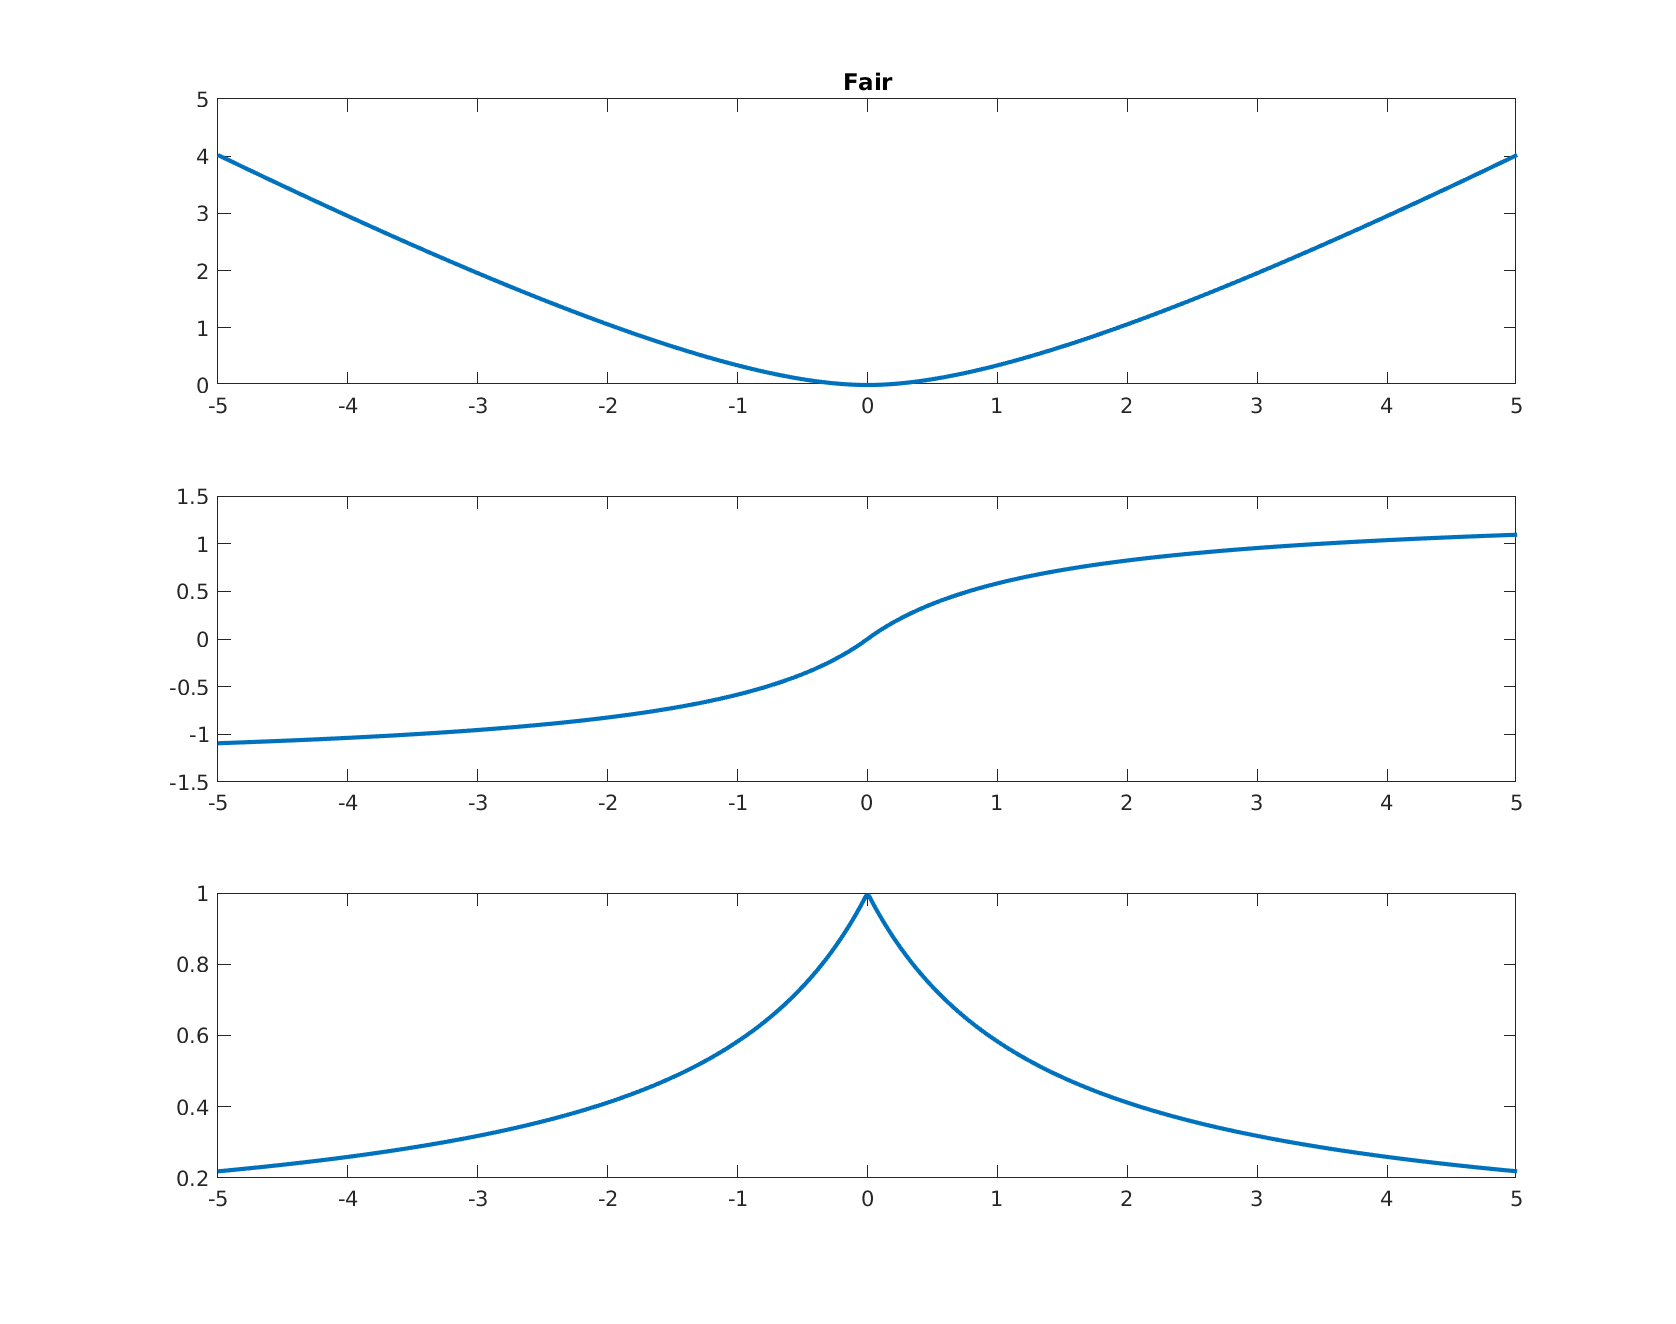
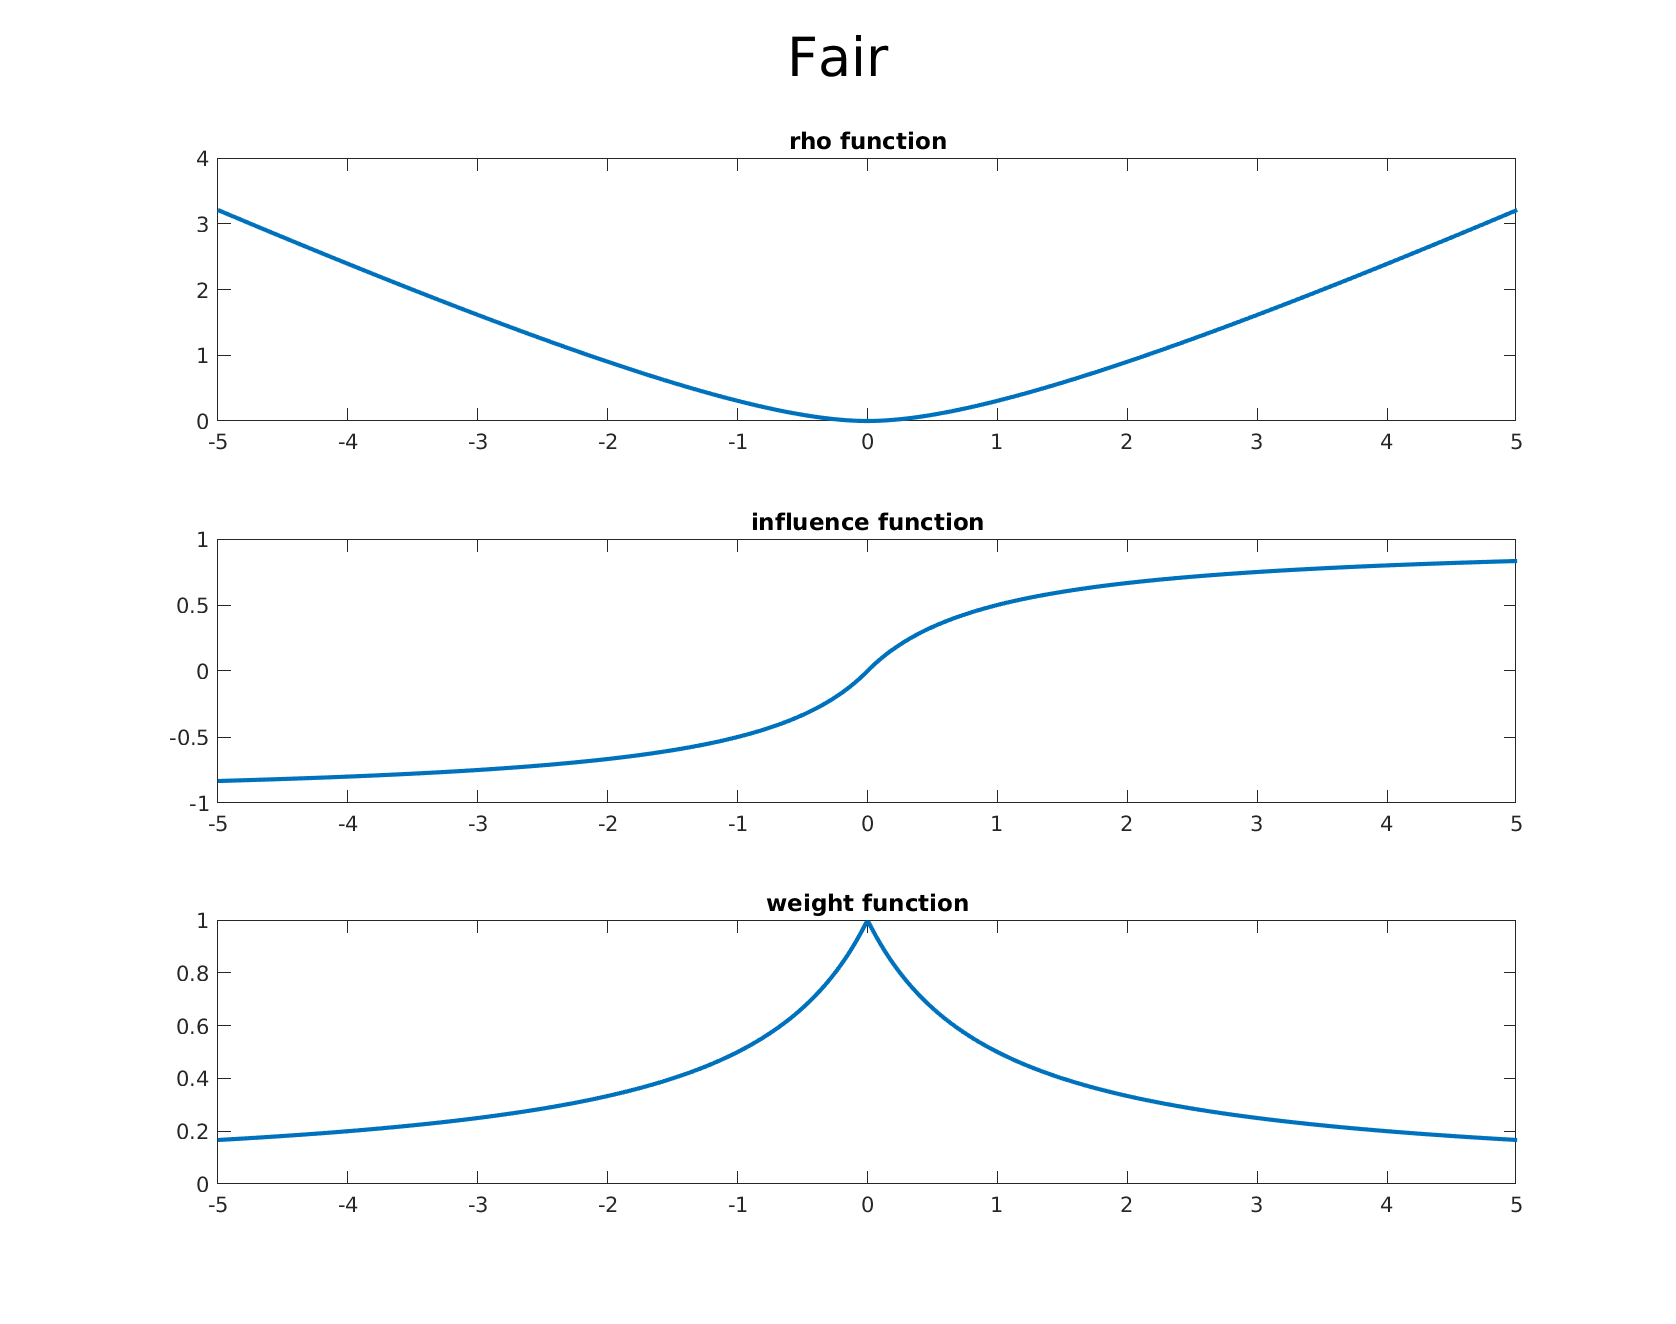
updates based on Adam Fishman's recommendations

diff --git a/_posts/2019-09-20-robust-noise-model.md b/_posts/2019-09-20-robust-noise-model.md
@@ -26,26 +26,26 @@ As we will see later in the post, the estimates from RANSAC and a robust estimat
 
 ## Parameter Estimation - A Short Tutorial
 
-We begin by reviewing techniques for parameter estimation as outlined by the [tutorial by Zhengyou Zhang][1], as applied to our $SE(2)$. Given some matches $\{(x,x')\}$ between the two images, we want to estimate the the $SE(2)$ parameters $\theta$ that transform a feature $x$ in the first image to a feature $x'$ in the  second image:
+We begin by reviewing techniques for parameter estimation as outlined by the [tutorial by Zhengyou Zhang][1], as applied to our $SE(2)$. Given some matches $\{(s,s')\}$ between the two images, we want to estimate the the $SE(2)$ parameters $\theta$ that transform a feature $s$ in the first image to a feature $s'$ in the  second image:
 
-\\[ x' = f(\theta ; x) \\]
+\\[ s' = f(\theta ; s) \\]
 
 Of course, this generalizes to other transformations, including 3D-2D problems. This is a ubiquitous problem seen in multiple domains of perception and robotics and is referred to as __parameter estimation__.
 
-A standard framework to estimate the parameters is via the Least-Squares formulation. We usually have many more observations than we have parameters, i.e., the problem is now overdetermined. To handle this, we minimize the sum of square __residuals__ $f(\theta ; x_i) - x'_i$, for $i\in1\ldots N$:
+A standard framework to estimate the parameters is via the Least-Squares formulation. We usually have many more observations than we have parameters, i.e., the problem is now overdetermined. To handle this, we minimize the sum of square __residuals__ $f(\theta ; s_i) - s'_i$, for $i\in1\ldots N$:
 
-\\[ E_{LS}(\theta) =  \sum_i \vert\vert f(\theta ; x_i) - x'_i \vert\vert^2 \\]
+\\[ E_{LS}(\theta) =  \sum_i \vert\vert f(\theta ; s_i) - s'_i \vert\vert^2 \\]
 
 which we refer to as __the cost function__ or __the objective function__.
 In the case of $SE(2)$ the parameters $\theta$ should be some parameterization of a transformation matrix, having three degrees of freedom (DOF). A simple way to accomplish this is to have $\theta=(x,y,\alpha)$.
 
 Our measurement functions are generally non-linear, and hence we need to linearize the measurement function around an estimate of $\theta$. GTSAM will iteratively do so via optimization procedures such as Gauss-Newton, Levenberg-Marquardt, or Dogleg. Linearization is done via the __Taylor expansion__ around a linearization point $\theta_0$:
 
-\\[ f(\theta + \Delta\theta; x) = f(\theta; x) + J(\theta; x)\Delta\theta \\]
+\\[ f(\theta + \Delta\theta; s) = f(\theta; s) + J(\theta; s)\Delta\theta \\]
 
 This gives us the following linearized least squares objective function:
 
-\\[ E_{LS, \theta_0} = \sum_i \vert\vert f(\theta; x_i) + J(\theta; x_i)\Delta\theta - x_i' \vert\vert^2 \\]
+\\[ E_{LS, \theta_0} = \sum_i \vert\vert f(\theta; s_i) + J(\theta; s_i)\Delta\theta - s_i' \vert\vert^2 \\]
 
 Since the above is now linear in $\Delta\theta$, GTSAM can solve it using either sparse Cholesky or QR factorization.
 
@@ -85,7 +85,7 @@ While M-estimators provide us with significant benefits with respect to outlier 
 
 ### Common M-estimators
 
-Below we list some of the common estimators from the literature and which are available out of the box in GTSAM. We also provide accompanying graphs of the corresponding $\rho$ function, the influence function, and the weight function in order, allowing one to visualize the differences and effects of each estimators influence function.
+Below we list some of the common estimators from the literature and which are available out of the box in GTSAM. We also provide accompanying graphs of the corresponding __$\rho$ function__, the __influence function__, and the __weight function__ in order, allowing one to visualize the differences and effects of each estimators influence function.
 
 1. Fair
 ![fair m-estimator](/assets/images/robust_estimators/fair.png)
@@ -217,7 +217,7 @@ We show, in order, the original image, its warped form, and the recovered image 
 
 <figure class="center">
   <img src="/assets/images/robust_estimators/ground_truth_images.png" alt="ground truth"/>
-  <figcaption>Image warping and recovery using ground truth SE(2) transform.</figcaption>
+  <figcaption>Image warping and recovery using ground truth SE(2) transform. The first image is the original image, the 2nd image is the transformed image, and the last one is the image we get on applying the reverse $SE(2)$ transform.</figcaption>
 </figure>
 
 <figure class="center">
@@ -227,7 +227,7 @@ We show, in order, the original image, its warped form, and the recovered image 
 
 <figure class="center">
   <img src="/assets/images/robust_estimators/vanilla_model_images.png" alt="vanilla"/>
-  <figcaption>Image warping and recovery using plain old parameter estimation. You can see that the 3rd image does not line up correctly.</figcaption>
+  <figcaption>Image warping and recovery using plain old parameter estimation. You can see that the 3rd (recovered) image does not line up correctly.</figcaption>
 </figure>
 
 <figure class="center">
